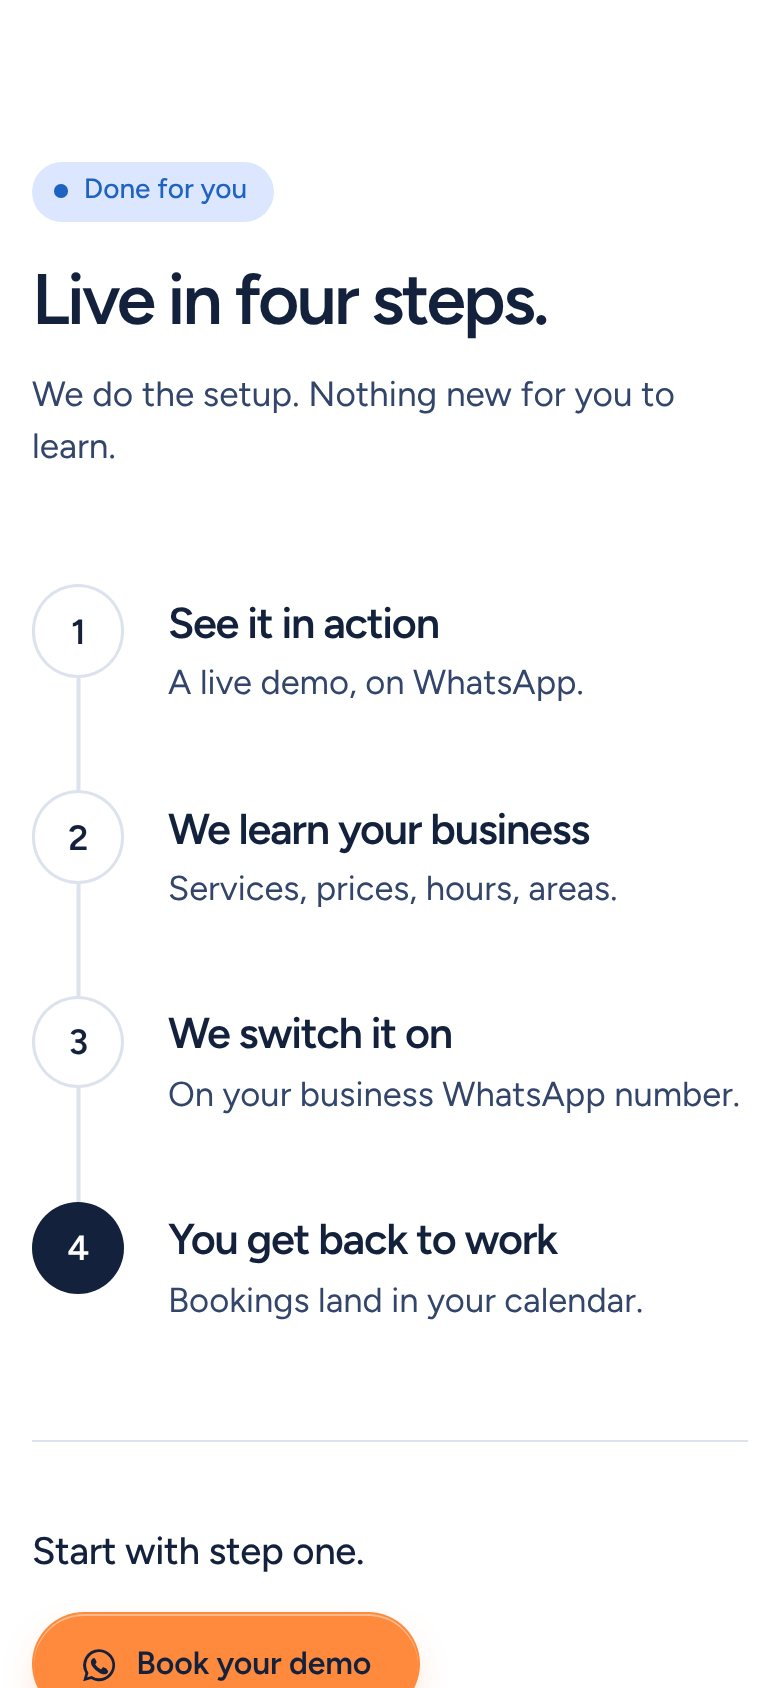
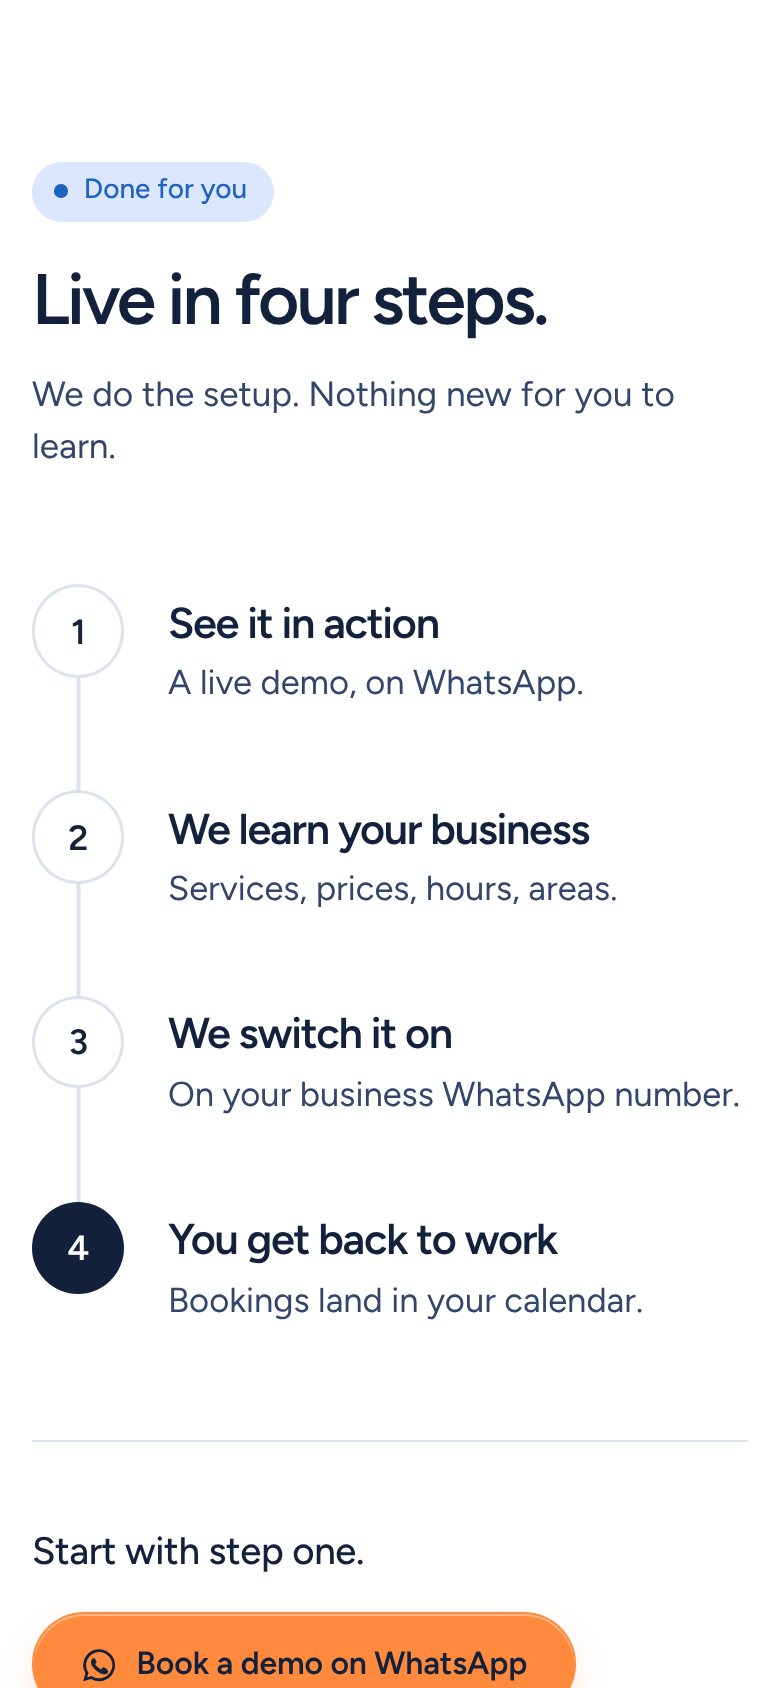
Privacy policy on Hillo, made-in-George positioning, moving aurora, full-bleed mobile contact, two-play hero chat, real studio WhatsApp links
Claude-Session: https://claude.ai/code/session_015WsDLJGdahUdhifUbWcuVV

Changed region(s): [[0.2769, 0.955, 0.7385, 1.0]]

diff --git a/receptionist/index.html b/receptionist/index.html
@@ -3,8 +3,8 @@
 <head>
 <meta charset="utf-8">
 <meta name="viewport" content="width=device-width, initial-scale=1">
-<title>Hillo Receptionist | WhatsApp bookings for George, Mossel Bay and surrounds</title>
-<meta name="description" content="Hillo Receptionist answers the WhatsApps you miss while you're with a client. It replies like a person, answers questions and books jobs into your calendar, in English or Afrikaans. For small businesses in George, Mossel Bay and surrounds.">
+<title>Hillo Receptionist | WhatsApp bookings for South African small businesses</title>
+<meta name="description" content="Hillo Receptionist answers the WhatsApps you miss while you're with a client. It replies like a person, answers questions and books jobs into your calendar, in English or Afrikaans. Made in George, for small businesses across South Africa.">
 <meta name="theme-color" content="#F6F8FC">
 <meta name="color-scheme" content="light">
 <!-- Draft preview: keep out of search until launch. Remove at launch. -->
@@ -136,9 +136,6 @@
     isolation: isolate;
     background-color: var(--canvas);
     /* Aurora: the original blue-to-violet tint across the top, plus a glow that lives behind the chat (see .aura) */
-    background-image:
-      radial-gradient(70% 60% at 0% 0%, #CCDAFF 0%, rgba(204,218,255,0) 60%),
-      radial-gradient(50% 50% at 100% 0%, #E6E0FF 0%, rgba(230,224,255,0) 70%);
     box-shadow: inset 0 -1px 0 rgba(20,33,61,.06);   /* clean edge into the white marquee band */
   }
   .hero-grid { display: grid; gap: 3.5rem; position: relative; z-index: 1; }
@@ -182,18 +179,27 @@
      It belongs to the chat, so it follows it on every layout and points the eye at the product. */
   .aura { position: absolute; z-index: -1; pointer-events: none; }
   .chat .aura { inset: -18% -22% -14% -22%; }
-  .blob { position: absolute; border-radius: 50%; filter: blur(48px); }
-  .aura .b1 { width: 60%; height: 58%; left: 4%; top: 6%; background: #8EADFF; opacity: .85; }
-  .aura .b2 { width: 56%; height: 56%; right: 2%; top: 20%; background: #B9A3FF; opacity: .85; }
-  .aura .b3 { width: 50%; height: 48%; left: 24%; bottom: 2%; background: #8FDDFF; opacity: .75; }
+  /* Each glow is a radial gradient, not a blurred shape: same softness, no per-frame blur cost on budget phones */
+  .blob { position: absolute; border-radius: 50%; scale: 1.45; background: radial-gradient(closest-side, var(--c) 0%, var(--c) 28%, transparent 100%); }
+  .aura .b1 { width: 60%; height: 58%; left: 4%; top: 6%; --c: #8EADFF; opacity: .85; }
+  .aura .b2 { width: 56%; height: 56%; right: 2%; top: 20%; --c: #B9A3FF; opacity: .85; }
+  .aura .b3 { width: 50%; height: 48%; left: 24%; bottom: 2%; --c: #8FDDFF; opacity: .75; }
   /* Very slow drift: alive, never noticed. Paused off screen; still with reduced motion. */
-  @keyframes drift1 { 0%,100% { transform: translate(0,0) scale(1); } 50% { transform: translate(6%, 5%) scale(1.08); } }
-  @keyframes drift2 { 0%,100% { transform: translate(0,0) scale(1); } 50% { transform: translate(-7%, 4%) scale(.94); } }
-  @keyframes drift3 { 0%,100% { transform: translate(0,0) scale(1); } 50% { transform: translate(4%, -6%) scale(1.06); } }
+  /* Slow but visible: each blob wanders a loose loop (not a back-and-forth), on co-prime
+     durations so the three never line up and the wash never repeats the same picture. */
+  @keyframes drift1 { 0%,100% { transform: translate(0,0) scale(1); } 25% { transform: translate(18%, 10%) scale(1.12); } 50% { transform: translate(8%, 24%) scale(.96); } 75% { transform: translate(-10%, 8%) scale(1.06); } }
+  @keyframes drift2 { 0%,100% { transform: translate(0,0) scale(1); } 25% { transform: translate(-16%, 14%) scale(.92); } 50% { transform: translate(-24%, -6%) scale(1.1); } 75% { transform: translate(-6%, -14%) scale(1); } }
+  @keyframes drift3 { 0%,100% { transform: translate(0,0) scale(1); } 25% { transform: translate(14%, -16%) scale(1.08); } 50% { transform: translate(-12%, -22%) scale(.95); } 75% { transform: translate(-18%, 4%) scale(1.1); } }
+  @keyframes tint { 0%,100% { transform: translate(0,0); } 50% { transform: translate(6%, 4%); } }
   .motion .blob { will-change: transform; }
-  .motion .blob.b1 { animation: drift1 26s ease-in-out infinite; }
-  .motion .blob.b2 { animation: drift2 31s ease-in-out infinite; }
-  .motion .blob.b3 { animation: drift3 23s ease-in-out infinite; }
+  .motion .blob.b1 { animation: drift1 37s ease-in-out infinite; }
+  .motion .blob.b2 { animation: drift2 43s ease-in-out infinite; }
+  .motion .blob.b3 { animation: drift3 31s ease-in-out infinite; }
+  /* The hero's top tint breathes too, much slower than the blobs, so the whole wash shifts */
+  .hero::before { content: ""; position: absolute; inset: -10%; z-index: -2; pointer-events: none;
+    background-image: radial-gradient(58% 50% at 8.3% 8.3%, #CCDAFF 0%, rgba(204,218,255,0) 60%), radial-gradient(42% 42% at 91.7% 8.3%, #E6E0FF 0%, rgba(230,224,255,0) 70%); }
+  .motion .hero::before { animation: tint 60s ease-in-out infinite; will-change: transform; }
+  .motion .off::before { animation-play-state: paused; }
   .motion .off .blob { animation-play-state: paused; }
   @media (min-width: 960px) { .chat { justify-self: end; } }
 
@@ -474,6 +480,17 @@
     background-color: #F1F4FD;
     background-image: radial-gradient(70% 70% at 0% 0%, #CCDAFF 0%, rgba(204,218,255,0) 60%);
   }
+  /* Phones: the panel becomes the band itself (edge to edge, no radius), so the form is the
+     only box and gets the full gutter width. Desktop keeps the contained banner. */
+  @media (max-width: 719px) {
+    .closing { padding-block: 0; }
+    .closing > .wrap { width: 100%; }
+    .closing-panel { border-radius: 0; padding: 4rem 1.25rem 3.5rem; gap: 2.25rem; }
+    .closing-panel form { padding: 1.5rem 1.25rem; }
+    .closing-panel .b1 { width: 80%; height: 40%; }
+    .closing-panel .b2 { width: 80%; height: 45%; top: 30%; }
+    .closing-panel .b3 { width: 75%; height: 35%; }
+  }
   /* Same aurora as the hero, so the page opens and closes on it */
   .closing-panel .aura { inset: 0; }
   .closing-panel .b1 { width: 45%; height: 70%; left: -5%; top: -10%; opacity: .55; }
@@ -516,7 +533,8 @@
   .foot-parent a { text-decoration: underline; text-underline-offset: 3px; }
   .foot-brand p { margin: 0.75rem 0 0; max-width: 24rem; }
   .foot-col h3 { margin: 0 0 0.9rem; font-size: 0.95rem; color: #fff; font-weight: 600; }
-  .foot-col ul { list-style: none; margin: 0; padding: 0; display: grid; gap: 0.6rem; }
+  .foot-col ul { list-style: none; margin: 0; padding: 0; display: grid; gap: 0; }
+  .foot-col a { display: inline-block; padding: 0.7rem 0; }   /* 44px tap rows on phones */
   .foot-base { margin-top: 3.5rem; padding-top: 1.5rem; border-top: 1px solid rgba(255,255,255,.14); display: flex; flex-wrap: wrap; justify-content: space-between; gap: 0.75rem; font-size: 0.88rem; }
 
   /* =========================================================
@@ -574,7 +592,7 @@
   <section class="hero" aria-labelledby="hero-title">
     <div class="wrap hero-grid">
       <div class="hero-copy">
-        <p class="tag on-wash loc"><svg class="i" aria-hidden="true"><use href="#i-pin"/></svg>George, Mossel Bay and surrounds</p>
+        <p class="tag on-wash loc"><svg class="i" aria-hidden="true"><use href="#i-pin"/></svg>Made in George, for South African businesses</p>
         <h1 class="headline" id="hero-title">
           <span class="line">Meet your new</span>
           <span class="sr-only">receptionist</span>
@@ -707,7 +725,7 @@
       </ol>
       <div class="how-cta">
         <p>Start with step one.</p>
-        <a class="btn btn-primary js-wa" href="#demo"><svg class="i"><use href="#i-wa"/></svg>Book your demo</a>
+        <a class="btn btn-primary js-wa" href="#demo"><svg class="i"><use href="#i-wa"/></svg>Book a demo on WhatsApp</a>
       </div>
     </div>
   </section>
@@ -802,7 +820,7 @@
         </details>
         <details>
           <summary>What happens to my customers' information?</summary>
-          <p>It's used only to answer and book. See the <a href="https://kevinirwin.co.za/privacy.html">privacy policy</a>.</p>
+          <p>It's used only to answer and book. See the <a href="/privacy/">privacy policy</a>.</p>
         </details>
       </div>
     </div>
@@ -841,7 +859,7 @@
     <div class="foot-grid">
       <div class="foot-brand">
         <a class="wordmark" href="#top" aria-label="Hillo Receptionist, back to top"><span class="wm" aria-hidden="true">h<span class="i">ı</span>llo</span><span class="desc" aria-hidden="true">receptionist</span></a>
-        <p>A WhatsApp assistant that knows your business. For small businesses in George, Mossel Bay and surrounds.</p>
+        <p>A WhatsApp assistant that knows your business. Made in George, for small businesses across South Africa.</p>
         <p class="foot-parent">A <a href="/">Hillo</a> product.</p>
       </div>
       <div class="foot-col">
@@ -855,7 +873,7 @@
       <div class="foot-col">
         <h3>Legal</h3>
         <ul>
-          <li><a href="https://kevinirwin.co.za/privacy.html">Privacy policy</a></li>
+          <li><a href="/privacy/">Privacy policy</a></li>
         </ul>
       </div>
     </div>
@@ -925,13 +943,15 @@
             await wait(li.classList.contains("cust") ? 700 : 450);
           }
         }
-        /* Loops, with a long hold on "Booked into your calendar." so the payoff lands each time */
+        /* Plays twice, with a long hold on "Booked into your calendar.", then rests on it:
+           enough to show it working, without movement in the corner while someone reads */
         async function loop() {
           await fontsReady;
           thread.style.height = thread.offsetHeight + "px";   // reserve the final size: no layout jump
           chat.classList.remove("pre");
-          for (;;) {
+          for (let run = 1; run <= 2; run++) {
             await play();
+            if (run === 2) break;
             await wait(5000); await whenVisible();
             thread.classList.add("fading"); await wait(500);
           }
@@ -1062,7 +1082,7 @@
       status.className = "form-status";
       const missing = [...form.querySelectorAll("[required]")].find(f => !f.value.trim());
       if (missing) {
-        status.textContent = "Add your " + missing.labels[0].textContent.toLowerCase() + " so we can get back to you.";
+        status.textContent = "Add your " + missing.labels[0].textContent.toLowerCase().replace(/^your /, "") + " so we can get back to you.";
         status.classList.add("err"); missing.focus(); return;
       }
       const btn = form.querySelector("button[type=submit]");

diff --git a/privacy/index.html b/privacy/index.html
@@ -1,0 +1,151 @@
+<!DOCTYPE html>
+<html lang="en-ZA">
+<head>
+<meta charset="utf-8">
+<meta name="viewport" content="width=device-width, initial-scale=1">
+<title>Privacy policy | Hillo</title>
+<meta name="description" content="How Hillo and Hillo Receptionist collect, use and protect personal information, in line with POPIA.">
+<meta name="robots" content="noindex, nofollow">
+<meta name="color-scheme" content="light">
+<meta name="theme-color" content="#F6F8FC">
+<link rel="canonical" href="https://hillo.co.za/privacy/">
+<link rel="preconnect" href="https://fonts.googleapis.com">
+<link rel="preconnect" href="https://fonts.gstatic.com" crossorigin>
+<link href="https://fonts.googleapis.com/css2?family=Figtree:wght@400;500;600&family=Funnel+Display:wght@400;600&display=swap" rel="stylesheet">
+<style>
+  :root {
+    --ink: #14213D;        /* Hillo Ink Midnight */
+    --ink-2: #33456B;
+    --signal: #2F7DE1;     /* the raised dot only */
+    --blue: #1F63C2;       /* Signal Deep: links */
+    --slate: #3F6F9B;
+    --mist: #E9F1F8;
+    --canvas: #F6F8FC;
+    --line: #DCE3EF;
+    --body: "Figtree", system-ui, -apple-system, "Segoe UI", sans-serif;
+    --mark: "Funnel Display", "Figtree", system-ui, sans-serif;
+  }
+  *, *::before, *::after { box-sizing: border-box; }
+  html { -webkit-text-size-adjust: 100%; }
+  body { margin: 0; background: var(--canvas); color: var(--ink); font-family: var(--body); font-size: 1.0625rem; line-height: 1.65; }
+  a { color: var(--blue); text-underline-offset: 0.15em; }
+  :focus-visible { outline: 3px solid var(--blue); outline-offset: 3px; border-radius: 6px; }
+  .wrap { width: min(100% - 2.5rem, 44rem); margin-inline: auto; }
+
+  header { border-bottom: 1px solid var(--line); background: #fff; }
+  header .wrap { display: flex; align-items: center; justify-content: space-between; gap: 1rem; height: 4.25rem; }
+  .wordmark { display: inline-flex; align-items: baseline; font-family: var(--mark); font-size: 1.55rem; line-height: 1; color: var(--ink); text-decoration: none; padding: 0.6rem 0; }
+  .wm { font-weight: 600; letter-spacing: -0.045em; }
+  .wm .i { position: relative; }
+  .wm .i::after { content: ""; position: absolute; left: 50%; top: .06em; width: .165em; height: .165em; margin-left: -.0825em; border-radius: 50%; background: var(--signal); }
+  .back { font-weight: 500; font-size: 0.95rem; color: var(--ink-2); text-decoration: none; padding: 0.75rem 0; }
+  .back:hover { color: var(--blue); }
+
+  main { padding-block: 3.5rem 5rem; }
+  h1 { margin: 0 0 0.5rem; font-weight: 600; font-size: clamp(2.3rem, 1.6rem + 3vw, 3.4rem); line-height: 1.05; letter-spacing: -0.04em; }
+  .meta { margin: 0 0 2.5rem; color: var(--ink-2); font-size: 0.95rem; }
+  .summary { background: var(--mist); border-radius: 1.25rem; padding: 1.4rem 1.5rem; margin: 0 0 3rem; }
+  .summary h2 { margin-top: 0; font-size: 1.15rem; }
+  .summary ul { margin: 0; }
+  h2 { margin: 2.75rem 0 0.6rem; font-weight: 600; font-size: 1.4rem; letter-spacing: -0.02em; line-height: 1.25; }
+  h3 { margin: 1.75rem 0 0.4rem; font-weight: 600; font-size: 1.1rem; }
+  p, ul { margin: 0 0 1rem; color: var(--ink-2); }
+  ul { padding-left: 1.2rem; }
+  li { margin-bottom: 0.4rem; }
+  strong { color: var(--ink); font-weight: 600; }
+
+  footer { border-top: 1px solid var(--line); padding-block: 2rem; font-size: 0.92rem; color: var(--ink-2); }
+  footer .wrap { display: flex; flex-wrap: wrap; justify-content: space-between; gap: 0.5rem 1.5rem; }
+  footer a { display: inline-block; padding: 0.6rem 0; }
+</style>
+</head>
+<body>
+
+<header>
+  <div class="wrap">
+    <a class="wordmark" href="/" aria-label="Hillo, home"><span class="wm" aria-hidden="true">h<span class="i">ı</span>llo</span></a>
+    <a class="back" href="/receptionist/">Hillo Receptionist</a>
+  </div>
+</header>
+
+<main class="wrap">
+  <h1>Privacy policy</h1>
+  <p class="meta">Effective 1 November 2026</p>
+
+  <section class="summary" aria-labelledby="summary-title">
+    <h2 id="summary-title">The short version</h2>
+    <ul>
+      <li>We only collect what we need to answer messages, take bookings and reply to you.</li>
+      <li>We don't sell your information, and we don't use it for advertising.</li>
+      <li>This website uses no cookies, analytics or tracking.</li>
+      <li>You can ask us what we hold about you, and ask us to correct or delete it, at <a href="mailto:hello@hillo.co.za">hello@hillo.co.za</a>.</li>
+    </ul>
+  </section>
+
+  <h2>Who we are</h2>
+  <p>Hillo is a design studio and the maker of Hillo Receptionist, a WhatsApp assistant for small businesses. Hillo is run by Kevin Irwin in George, Western Cape, South Africa. For the Protection of Personal Information Act (POPIA), Kevin Irwin is the responsible party and Information Officer.</p>
+  <p>Contact: <a href="mailto:hello@hillo.co.za">hello@hillo.co.za</a></p>
+
+  <h2>What this policy covers</h2>
+  <ul>
+    <li><strong>This website</strong>, hillo.co.za, including the Hillo Receptionist page.</li>
+    <li><strong>Hillo Receptionist</strong>, when it answers WhatsApp messages on behalf of a business that uses it.</li>
+  </ul>
+
+  <h2>When you use this website</h2>
+  <h3>The demo request form</h3>
+  <p>If you fill in the form, we collect your name, business name, phone or WhatsApp number, and anything you write about your business. We use it only to contact you about a demo. The form is processed by Formspree, which emails it to us.</p>
+  <h3>WhatsApp buttons</h3>
+  <p>The WhatsApp buttons open a chat with us in WhatsApp. Anything you send there is handled by WhatsApp (Meta) under its own privacy policy, and we use it only to reply to you.</p>
+  <h3>Behind the scenes</h3>
+  <p>The site is hosted by Cloudflare, and its fonts load from Google Fonts. Like any web service, they receive your IP address and basic browser details when a page loads. We don't use cookies, analytics or advertising trackers.</p>
+
+  <h2>When you message a business that uses Hillo Receptionist</h2>
+  <p>Some businesses use Hillo Receptionist to answer their WhatsApp. It tells you in its first reply that it's an automated assistant. When you message one of these businesses, we handle your information on the business's behalf. Under POPIA, the business is the responsible party and Hillo is its operator.</p>
+  <h3>What we collect</h3>
+  <ul>
+    <li>Your WhatsApp number and profile name.</li>
+    <li>The messages you send and the replies.</li>
+    <li>Details you give for a booking, such as your name, address, the service you need and the time you choose.</li>
+  </ul>
+  <h3>What we use it for</h3>
+  <ul>
+    <li>To understand your message and reply.</li>
+    <li>To check the business's availability and book you into its calendar.</li>
+    <li>To let the business owner know when you need them personally.</li>
+  </ul>
+  <p>We don't use it for marketing, and we don't sell it.</p>
+  <h3>Who helps us do this</h3>
+  <ul>
+    <li><strong>WhatsApp (Meta)</strong> carries the messages.</li>
+    <li><strong>An AI service provider</strong> reads each message to write the reply. It processes the text only to produce that reply.</li>
+    <li><strong>Google Calendar</strong> holds the business's bookings.</li>
+    <li><strong>Automation and hosting providers</strong> run the assistant and store the conversation while it's needed.</li>
+  </ul>
+  <p>Some of these providers process information outside South Africa, including in the United States and Europe. We only use providers that protect personal information to a standard comparable to POPIA.</p>
+  <h3>How long we keep it</h3>
+  <p>We keep conversation history only for as long as it's needed to handle your enquiry and booking. Bookings stay in the business's own calendar, under that business's control. When a business stops using Hillo Receptionist, we delete its customers' conversation history.</p>
+
+  <h2>Keeping it safe</h2>
+  <p>We limit access to people who need it to run the service, use providers with strong security, and never put access keys or personal information in public code.</p>
+
+  <h2>Your rights</h2>
+  <p>Under POPIA you can ask what personal information we hold about you, ask us to correct or delete it, and object to how we use it. Email <a href="mailto:hello@hillo.co.za">hello@hillo.co.za</a>. If you contacted a business through Hillo Receptionist, you can also ask that business directly.</p>
+  <p>If you're unhappy with how we've handled your information, you can complain to the <a href="https://inforegulator.org.za/" rel="noopener">Information Regulator</a>.</p>
+
+  <h2>Children</h2>
+  <p>Our services are for businesses and their customers. We don't knowingly collect information from children.</p>
+
+  <h2>Changes to this policy</h2>
+  <p>If we change this policy, we'll update it here and change the date at the top.</p>
+</main>
+
+<footer>
+  <div class="wrap">
+    <span>&copy; 2026 Hillo · George, Western Cape</span>
+    <a href="mailto:hello@hillo.co.za">hello@hillo.co.za</a>
+  </div>
+</footer>
+
+</body>
+</html>

diff --git a/index.html b/index.html
@@ -484,10 +484,10 @@ footer .wrap{padding-block:clamp(72px,8vw,120px) 32px;display:grid;gap:clamp(32p
   <section class="contact" id="contact">
     <div class="wrap">
       <span class="label sp">Contact</span>
-      <h2 aria-label="Say hillo."><span aria-hidden="true">Say <span class="wm">h<span class="i">ı</span>llo</span> <a class="chip c3" href="https://wa.me/27000000000" target="_blank" rel="noopener" tabindex="-1" title="Message on WhatsApp"><i></i><i></i><i></i></a></span></h2>
+      <h2 aria-label="Say hillo."><span aria-hidden="true">Say <span class="wm">h<span class="i">ı</span>llo</span> <a class="chip c3" href="https://wa.me/27825249297" target="_blank" rel="noopener" tabindex="-1" title="Message on WhatsApp"><i></i><i></i><i></i></a></span></h2>
       <p class="hi-sub">Let's take a look <span class="bi">at</span> your business. Message on WhatsApp or email and we'll get back to you.</p>
       <div class="row">
-        <a class="btn white" href="https://wa.me/27000000000" target="_blank" rel="noopener">Message on WhatsApp <span aria-hidden="true">→</span></a>
+        <a class="btn white" href="https://wa.me/27825249297" target="_blank" rel="noopener">Message on WhatsApp <span aria-hidden="true">→</span></a>
         <span class="em" id="em">hello@hillo.co.za</span>
         <button type="button" data-copy="em">Copy email</button>
       </div>
@@ -539,7 +539,7 @@ footer .wrap{padding-block:clamp(72px,8vw,120px) 32px;display:grid;gap:clamp(32p
       <h1>A website <span class="bi">for</span> a WhatsApp receptionist</h1>
       <div class="facts">
         <div><span class="label">Product</span><span>Hillo Receptionist</span></div>
-        <div><span class="label">For</span><span>Small businesses in George, Mossel Bay and surrounds</span></div>
+        <div><span class="label">For</span><span>Small businesses across South Africa, made in George</span></div>
         <div><span class="label">Scope</span><span>Positioning, copy, design, front-end, motion</span></div>
         <div><span class="label">Built</span><span>One static page, no framework · <a href="/receptionist/">hillo.co.za/receptionist</a></span></div>
       </div>
@@ -629,11 +629,11 @@ footer .wrap{padding-block:clamp(72px,8vw,120px) 32px;display:grid;gap:clamp(32p
   <div class="wrap">
     <div class="grid fcols">
       <p class="lead">A higher view <span class="bi">for</span> local businesses.</p>
-      <div><span class="label">Get in touch</span><ul><li><a href="#contact">Say hillo</a></li><li><a href="https://wa.me/27000000000" target="_blank" rel="noopener">WhatsApp</a></li></ul></div>
+      <div><span class="label">Get in touch</span><ul><li><a href="#contact">Say hillo</a></li><li><a href="https://wa.me/27825249297" target="_blank" rel="noopener">WhatsApp</a></li></ul></div>
       <div><span class="label">See more</span><ul><li><a href="#work">Work</a></li><li><a href="#services">Services</a></li><li><a href="#process">How it works</a></li><li><a href="#about">About</a></li></ul></div>
     </div>
     <a class="sign" href="#top" aria-label="hillo, back to top"><span class="wm" aria-hidden="true">h<span class="i">ı</span>llo</span></a>
-    <div class="fbase"><span>Hillo · Design studio, Garden Route</span><span>© 2026 Hillo</span></div>
+    <div class="fbase"><span>Hillo · Design studio, Garden Route</span><span><a href="/privacy/">Privacy policy</a> · © 2026 Hillo</span></div>
   </div>
 </footer>
 
